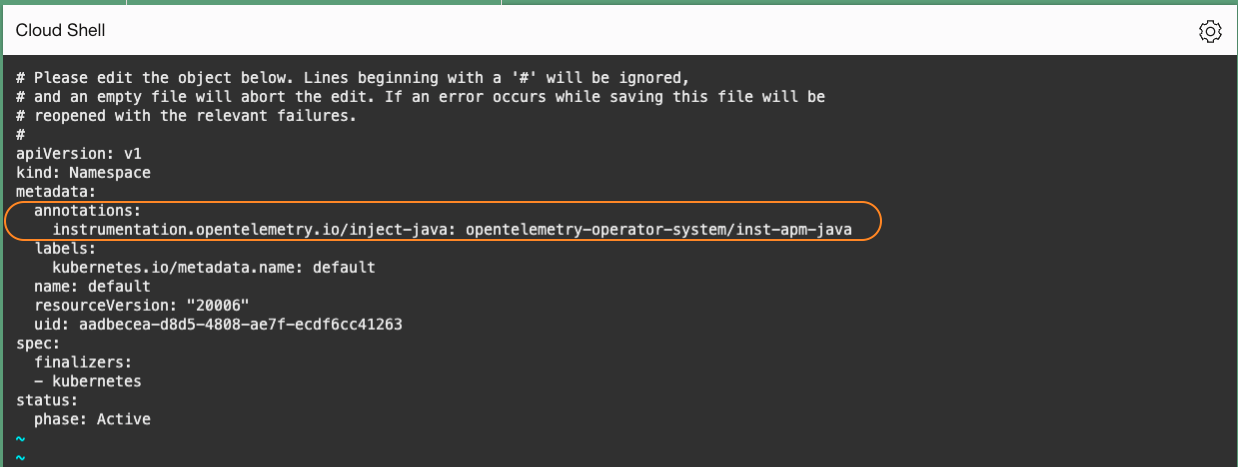
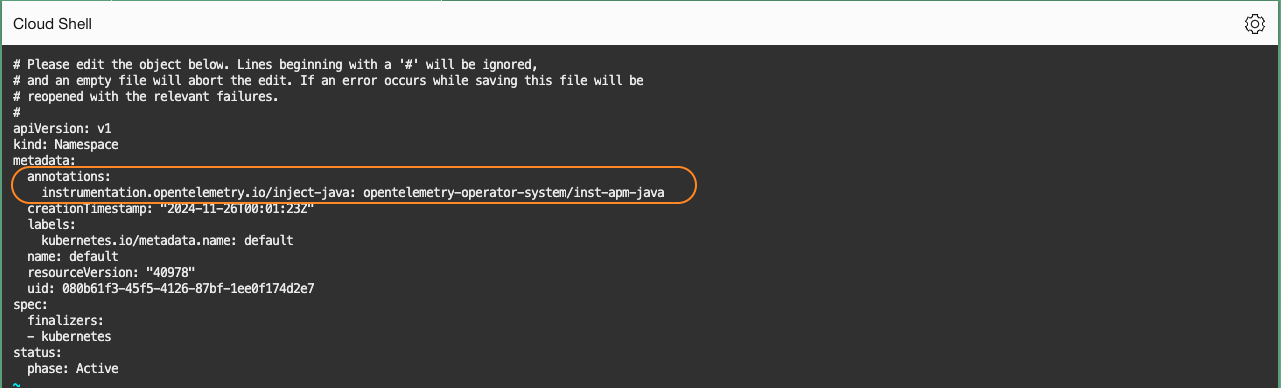
WSM ID 11191 implementing QA feedbacks
implementing QA feedbacks

Changed region(s): [[0.0, 0.1546, 0.706, 1.0], [0.0, 0.0, 1.0, 0.1237]]

diff --git a/oci-apm-springboot/04-deploy-apm-agent/deploy-apm-agent.md b/oci-apm-springboot/04-deploy-apm-agent/deploy-apm-agent.md
@@ -10,8 +10,6 @@ The OCI APM Java agent is designed to monitor Java applications and supports mul
 
 Estimated time: 10 minutes
 
-Watch the video below for a quick walk-through of the lab.
-[Instrument the server monitoring](videohub:1_2mpynh0j)
 
 ### Objectives
 
@@ -37,7 +35,7 @@ As a pre-requisite to automataically deploy APM Java agent in the Kuberenetes, c
     ```
    ![Oracle Cloud console, Cloud Shell](images/1-1-cert-manager.png " ")
 
-2. Then install the **[OpenTelemetry Operator](https://github.com/open-telemetry/opentelemetry-operator)** into the Kubernetes cluster.
+2. Once the command is complete, wait for 30 seconds to complete the configuration in the background. Then install the **[OpenTelemetry Operator](https://github.com/open-telemetry/opentelemetry-operator)** into the Kubernetes cluster by running the command below. 
 
     ``` bash
     <copy>
@@ -46,51 +44,40 @@ As a pre-requisite to automataically deploy APM Java agent in the Kuberenetes, c
     ```
    
    ![Oracle Cloud console, Cloud Shell](images/1-2-otel-operator.png " ")
+ 
+ >**Note:** if you see an error, **no endpoints available for service "cert-manager-webhook"**, re-run the command to install OpenTelemetry Operator.
 
-## Task 2: Create Kubernetes custom resource defiition file
+## Task 2: Create Kubernetes custom resource definition
 
 To manage automatic instrumentation, the operator must have information about the agent and its configuration.
 
 The first requirement is addressed using a Custom Resource Definition (CRD). The Custom Resource will be used by the operator to copy the agent into the pod with required configuration. The OpenTelemetry operator uses Kubernetes annotations to determine which pods should be automatically injected with the OCI APM Java agent.
 
-1. Use any editor to create a custom resource definition file.
+1. To create a custom resource definition, replace **Data Upload Endpoint**, and the **Private Data key** (copied from the APM domain adminstration page in the previous labs) in the command below, and then execute it.
 
     ``` bash
     <copy>
-    vi customapmresoruce.yaml
-    </copy>
-    ```
-
-2. Copy the below content, and past it into the file. Replace **Data Upload Endpoint**, and the **Private Data key**, which you copied from the APM domain adminstration page in the previous labs
-
-    ``` bash
-    <copy>
+    kubectl apply -f - <<EOF
     apiVersion: opentelemetry.io/v1alpha1
     kind: Instrumentation
     metadata:
-    name: inst-apm-java
-    namespace: opentelemetry-operator-system
+      name: inst-apm-java
+      namespace: opentelemetry-operator-system
     spec:
-    java:
-        image: us-ashburn-1.ocir.io/idpyjkbcc9tk/apm-java-agent-aio:latest
+      java:
+        image: container-registry.oracle.com/oci_observability_management/oci-apm-java-agent:latest
         env:
-        - name: OTEL_com_oracle_apm_agent_data_upload_endpoint
+          - name: OTEL_com_oracle_apm_agent_data_upload_endpoint
             value: <DATA UPLOAD END POINT>
-        - name: OTEL_com_oracle_apm_agent_private_data_key
+          - name: OTEL_com_oracle_apm_agent_private_data_key
             value: <PRIVATE DATA KEY>
+    EOF
     </copy>
     ```
 
-    ![Oracle Cloud console, Cloud Shell](images/2-1-create-cr.png " ")
-
-3. Apply the Custom Resource definition to the Kubernetes cluster. You can ignore the warning.
-
-    ``` bash
-    <copy>
-    kubectl apply -f ~/sb-hol/customapmresoruce.yaml
-    </copy>
-    ```
     ![Oracle Cloud console, Cloud Shell](images/2-2-apply-cr.png " ")
+
+ >**Note:** You can ignore the warning. 
 
 ## Task 3: Add an annotation to the namespace
 
@@ -107,37 +94,31 @@ Another requirement to manage automatic instrumentation is to specify which pods
     ``` bash
     <copy>
     annotations:
-      Instrumentation.opentelemetry.io/inject-java: "opentelemetry-operator-system/inst-apm-java"
+      instrumentation.opentelemetry.io/inject-java: "opentelemetry-operator-system/inst-apm-java"
     </copy>
     ```
      ![Oracle Cloud console, Cloud Shell](images/3-1-annotation.png " ")
 
 ## Task 4: Redeploy the application
 
-1. Redeploy the application to verity the data collection. First delete the application by running the command below.
+1.  Run the the command below to restart the stafulsets. This will redeploy the application.
 
     ``` bash
     <copy>
-    kubectl delete -f ~/sb-hol/wstore.yaml 
+    kubectl rollout restart statefulset 
     </copy>
     ```
-2. Wait for the command completes, then deploy the winestore applcation.
 
-    ``` bash
-    <copy>
-    kubectl apply -f ~/sb-hol/wstore.yaml --validate=false
-    </copy>
-    ```
      ![Oracle Cloud console, Cloud Shell](images/4-1-restart-app.png " ")
     
-3. Ensure the pods are in the running state. This may take a few minutes.  
+2. Ensure the pods are in the running state. This may take a few minutes.  
 
    ``` bash
     <copy>
     kubectl get pods
     </copy>
     ```
-4. Run the command below to obtain the application's external IP address. 
+3. Run the command below to obtain the application's external IP address. 
 
     ``` bash
     <copy>

diff --git a/oci-apm-springboot/00-introduction/introduction.md b/oci-apm-springboot/00-introduction/introduction.md
@@ -40,9 +40,8 @@ In this workshop, you will:
 **[Click here for the Free Tier FAQ page.](https://www.oracle.com/cloud/free/faq.html)**
 
 If you are running the workshop in a Paid Cloud Account, ensure you have the permissions below:
-* Oracle Cloud resources and permissions to create a file system. See **[Creating File Systems](https://docs.oracle.com/en-us/iaas/Content/File/Tasks/creatingfilesystems.htm)** and **[Service Limits](https://docs.oracle.com/en-us/iaas/Content/General/Concepts/servicelimits.htm#top)** in the Oracle Cloud documentation.
-*	Oracle Cloud Account Administrator role or manage apm-domains permission in the target compartment. See **[Perform Oracle Cloud Infrastructure Prerequisites (APM)](https://docs.oracle.com/en-us/iaas/application-performance-monitoring/doc/perform-oracle-cloud-infrastructure-prerequisite-tasks.html)** in the Oracle Cloud documentation.
 
+*	Oracle Cloud Account Administrator role or manage apm-domains permission in the target compartment. See **[Perform Oracle Cloud Infrastructure Prerequisites (APM)](https://docs.oracle.com/en-us/iaas/application-performance-monitoring/doc/perform-oracle-cloud-infrastructure-prerequisite-tasks.html)** in the Oracle Cloud documentation.
 
 ### More APM Workshops
 

diff --git a/oci-apm-springboot/03-build-app/build-app.md b/oci-apm-springboot/03-build-app/build-app.md
@@ -88,11 +88,8 @@ Watch the video below for a quick walk-through of the lab.
     ```
   ![Oracle Cloud console, Cloud Shell](images/4-1-cloudshell.png " ")
 
-    >**Note:** Verify there are the following files in the folder.
-    - apmlab-fss.yaml
-    - wstore.yaml
-    - wstore-add-storage.yaml
-    - wstore-deploy-agent.yaml
+    >**Note:** Verify the **wstore.yaml** file is in the folder.
+    
 
 3. Execute the command below to deploy the application to the cluster.
     ``` bash

diff --git a/oci-apm-springboot/07-cleanup/cleanup.md b/oci-apm-springboot/07-cleanup/cleanup.md
@@ -99,7 +99,7 @@ To delete the workshop setup from your tenancy, follow the steps below.
 
     ``` bash
     <copy>
-    cd ~; rm customapmresoruce.yaml; rm index.html; rm -r sb-hol;rm sb-hol.zip
+    cd ~; rm index.html; rm -r sb-hol;rm sb-hol.zip
     </copy>
     ```
    ![Oracle Cloud, Cloud console](images/4-16-cleanup.png " ")   
